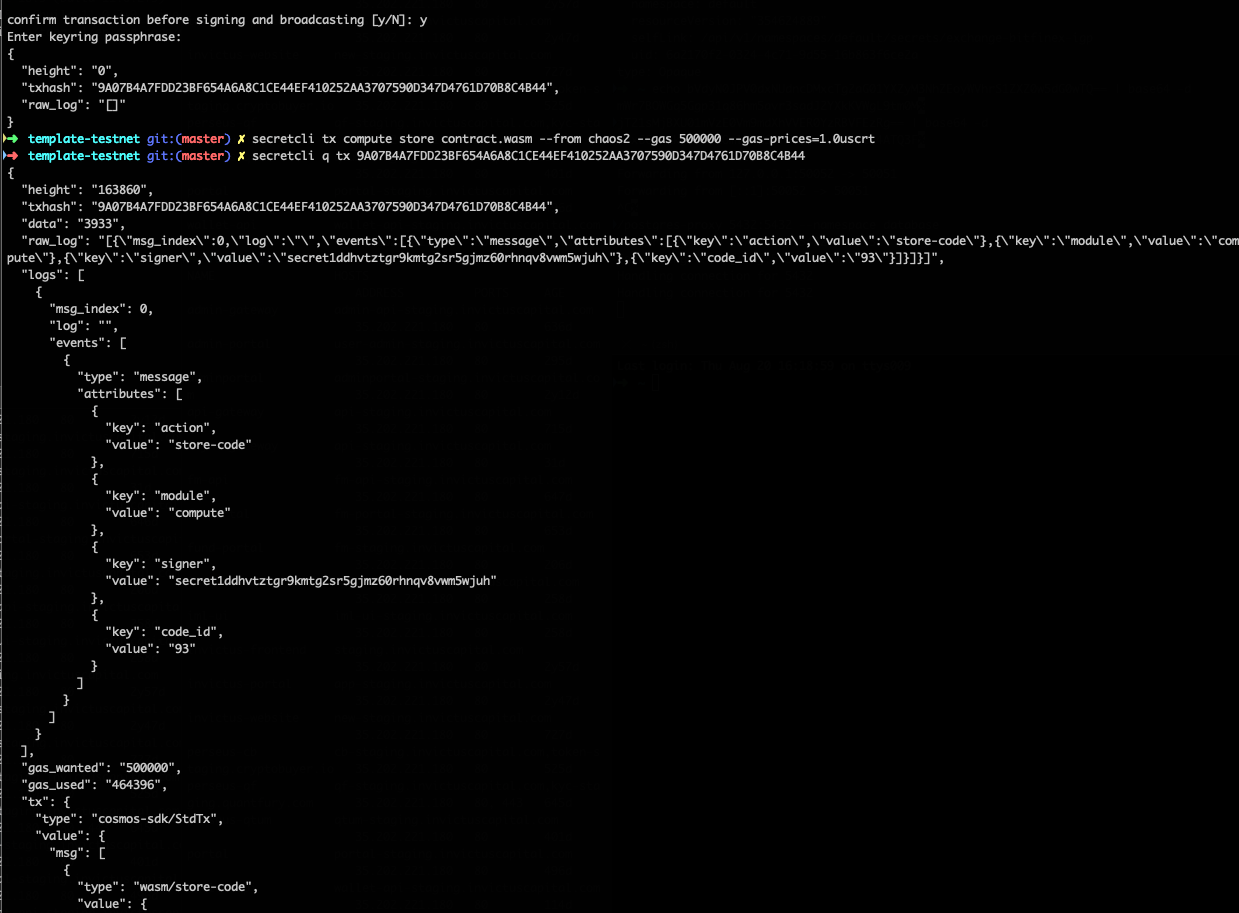
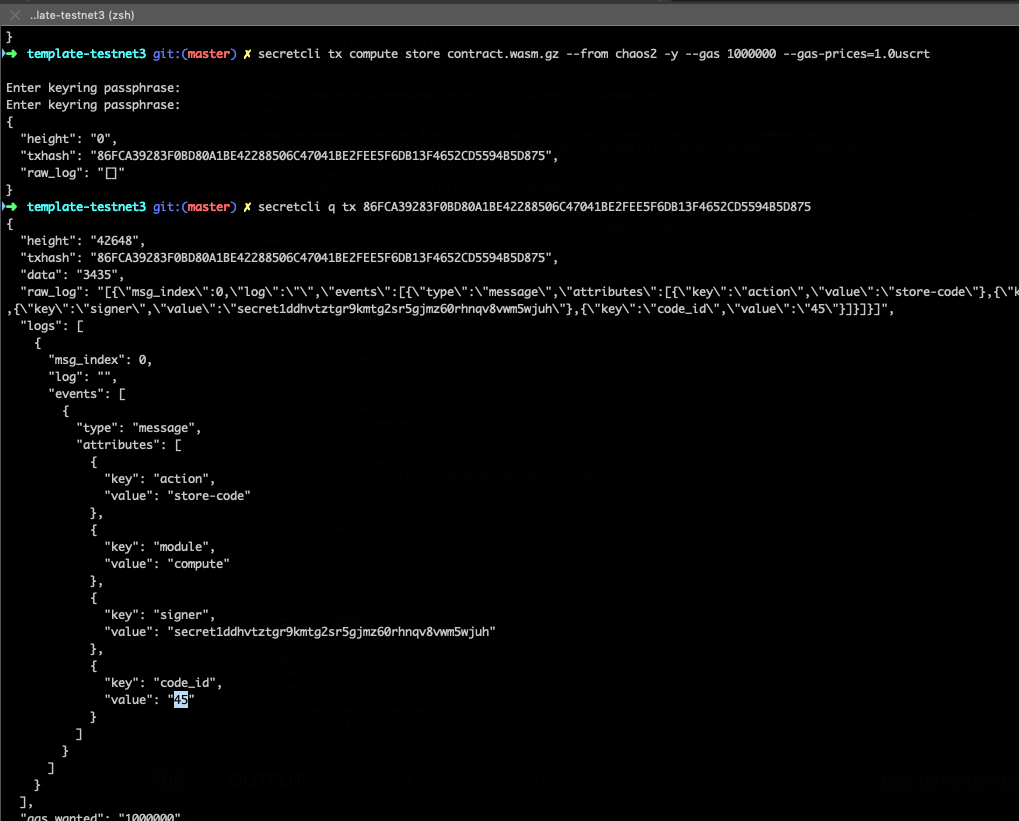
updates for testnet 2

Changed region(s): [[0.0, 0.0, 1.0, 0.7917], [0.0, 0.8222, 0.213, 1.0], [0.578, 0.0609, 0.9127, 0.0914]]

diff --git a/README.md b/README.md
@@ -9,9 +9,11 @@ A few important notes:
 
 ## Setup the Secret Network light client
 - [Install the secretcli](https://github.com/enigmampc/SecretNetwork/blob/master/docs/testnet/install_cli.md)
+- NB Use v0.8.0 for the testnet (https://github.com/enigmampc/SecretNetwork/releases/tag/v0.8.0)
 - configure secretcli to use the testnet
   ```
-  secretcli config node tcp://bootstrap.pub.testnet.enigma.co:26657
+  secretcli config node tcp://bootstrap.pub.testnet2.enigma.co:26657
+  secretcli config chain-id enigma-pub-testnet-3
   ```
 
 ## Setup Secret Contracts (cosmwasm)
@@ -98,66 +100,23 @@ Cargo.toml	Importing.md	NOTICE		README.md	rustfmt.toml	src
 
 Use the following command to compile the smart contract which produces the wasm contract file.
 
-```
-cargo wasm
-```
-
-## Unit Tests (NB Tests in this template currently fail unless you have SGX enabled)
-
-Run unit tests
+NB The Makefile uses wasm-opt, a WebAssembly optimizer. You can install with npm for eg `npm i -g wasm-opt`
 
 ```
-RUST_BACKTRACE=1 cargo unit-test
+make
 ```
-
-## Integration Tests
-
-The integration tests are under the `tests/` directory and run as:
-
-```
-cargo integration-test
-```
-
-## Generate Msg Schemas
-
-We can also generate JSON Schemas that serve as a guide for anyone trying to use the contract, to specify which arguments they need.
-
-Auto-generate msg schemas (when changed):
-
-```
-cargo schema
-```
-
-
-## Deploy Smart Contract
-
-Before deploying or storing the contract on the testnet, need to run the cosmwasm optimizer.
-
-### Optimize compiled wasm
-
-```
-docker run --rm -v "$(pwd)":/code \
-  --mount type=volume,source="$(basename "$(pwd)")_cache",target=/code/target \
-  --mount type=volume,source=registry_cache,target=/usr/local/cargo/registry \
-  cosmwasm/rust-optimizer:0.8.0  
-```
-The contract wasm needs to be optimized to get a smaller footprint. Cosmwasm notes state the contract would be too large for the blockchain unless optimized. This example contract.wasm is 1.8M before optimizing, 90K after.
-
-The optimization creates two files:
-- contract.wasm
-- hash.txt
 
 ### Store the Smart Contract on our local Testnet
 
-Upload the optimized contract.wasm to _enigma-pub-testnet-2_ :
+Upload the optimized contract.wasm to _enigma-pub-testnet-3_ :
 
 ```
-secretcli tx compute store contract.wasm --from <your account alias> --gas 500000 --gas-prices=1.0uscrt
+secretcli tx compute store contract.wasm.gz --from <your account alias> -y --gas 1000000 --gas-prices=1.0uscrt
 ```
 
-The result is a txhash, query it you can see the code_id in the logs, in this case it's 93 as shown below. We'll need the code_id to create an instance of the contract.
+The result is a txhash, query it you can see the code_id in the logs, in this case it's 45 as shown below. We'll need the code_id to create an instance of the contract.
 ```
-secretcli q tx 9A07B4A7FDD23BF654A6A8C1CE44EF410252AA3707590D347D4761D70B8C4B44
+secretcli q tx 86FCA39283F0BD80A1BE42288506C47041BE2FEE5F6DB13F4652CD5594B5D875
 ```
 
 ![](store_contract.png)
@@ -169,16 +128,9 @@ List current smart contract code
 secretcli query compute list-code
 [
   {
-    "id": 92,
-    "creator": "secret16xum37xp3pt6jxwy8hyhylhnfju7z6wwwn4jpz",
[1 lines of base64/hex data omitted]
-    "source": "",
-    "builder": ""
-  },
-  {
-    "id": 93,
+    "id": 45,
     "creator": "secret1ddhvtztgr9kmtg2sr5gjmz60rhnqv8vwm5wjuh",
[2 lines of base64/hex data omitted]
     "source": "",
     "builder": ""
   }
@@ -187,11 +139,11 @@ secretcli query compute list-code
 
 ### Instantiate the Smart Contract
 
-To create an instance of this project we must also provide some JSON input data, a starting count.
+To create an instance of this project we must also provide some JSON input data, a starting count, you should change the label to be something unique, which can then be referenced by label instead of contract address for convenience.
 
 ```bash
 INIT="{\"count\": 100000000}"
-CODE_ID=93
+CODE_ID=45
 secretcli tx compute instantiate $CODE_ID "$INIT" --from <your account alias> --label "my counter" -y
 ```
 
@@ -199,11 +151,11 @@ With the contract now initialized, we can find its address
 ```bash
 secretcli query compute list-contract-by-code $CODE_ID
 ```
-Our instance is secret1tss72nzwqzverru7fy5s49czqepmvdgwdz3gcx
+Our instance is secret1htxt8p8lu0v53ydsdguk9pc0x9gg060k7x4qxr
 
 We can query the contract state
 ```bash
-CONTRACT=secret1tss72nzwqzverru7fy5s49czqepmvdgwdz3gcx
+CONTRACT=secret1htxt8p8lu0v53ydsdguk9pc0x9gg060k7x4qxr
 
 secretcli query compute query $CONTRACT "{\"get_count\": {}}"
 ```
